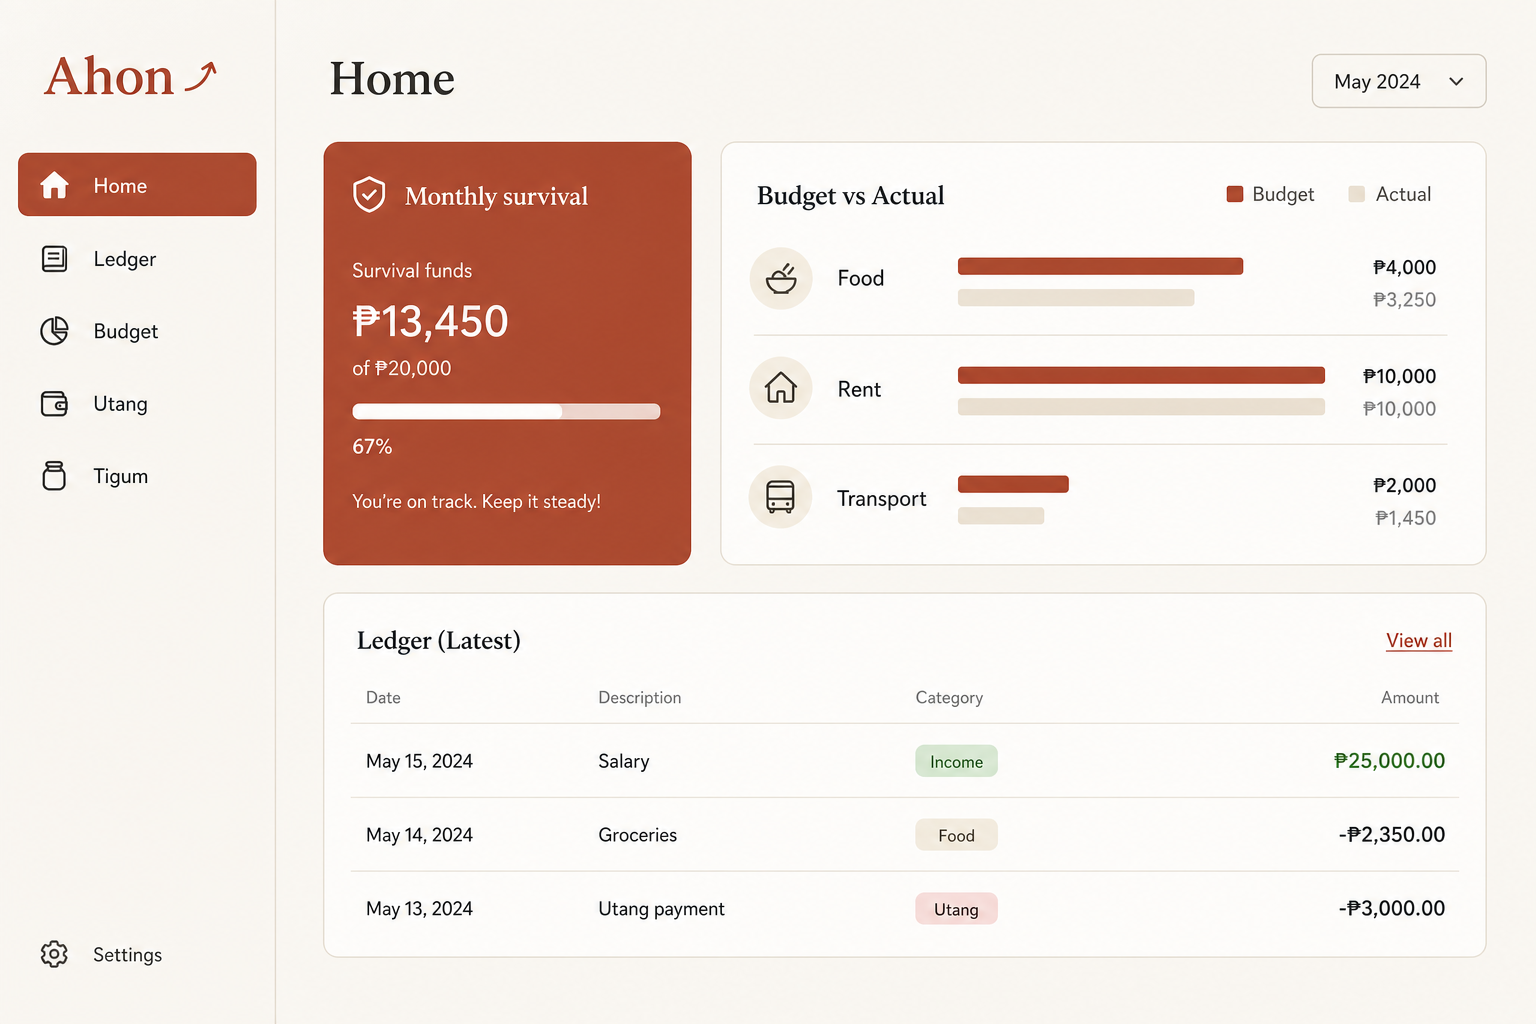
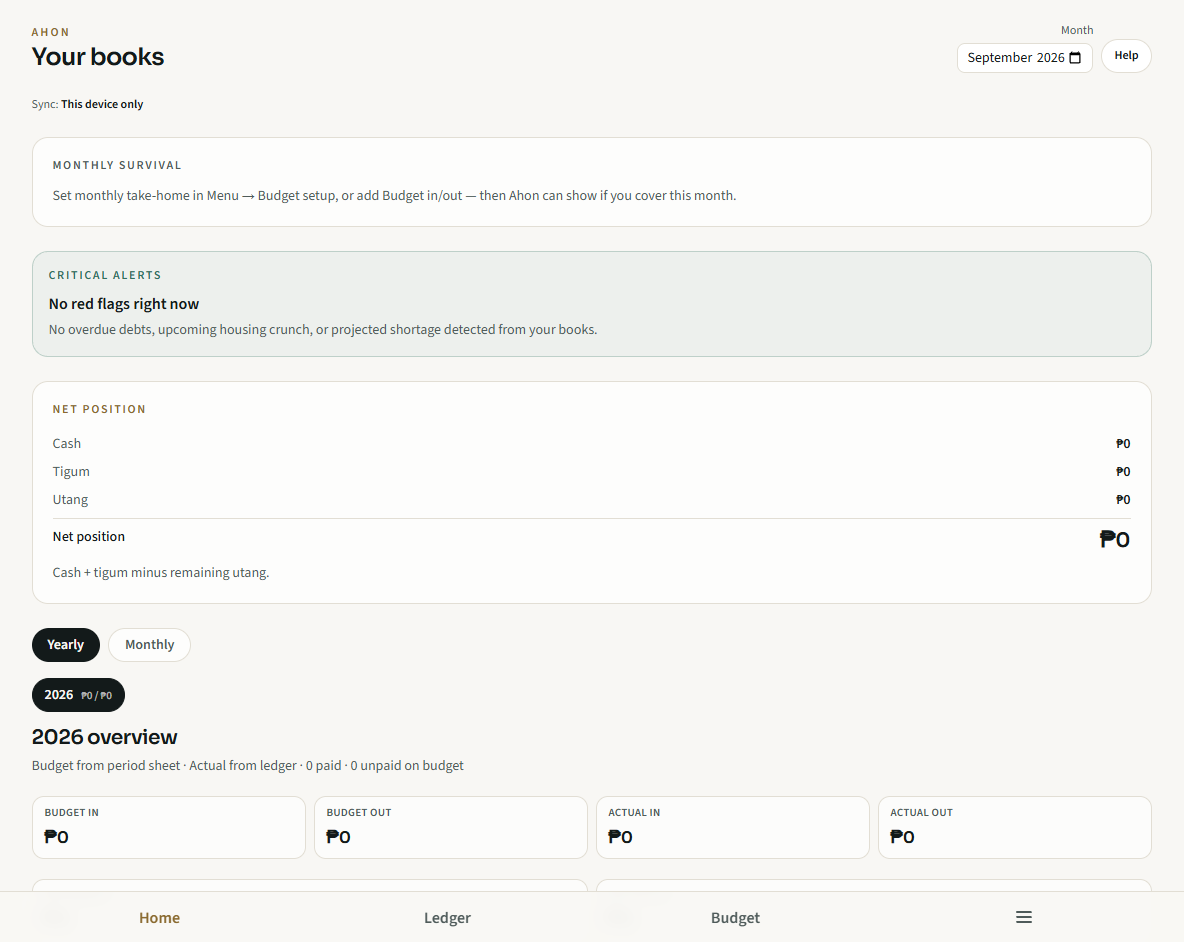
Enhance project display in index.html by adding a featured media set for the Ahon project, including a new image. Update styles in style.css to support the new layout with grid areas for better organization and responsiveness.

diff --git a/css/style.css b/css/style.css
@@ -558,13 +558,27 @@ h3 {
 }
 
 .project-row {
-  grid-template-columns: 4rem minmax(14rem, 20rem) 1fr;
+  grid-template-columns: 4rem 1fr;
   align-items: start;
   padding: 40px 0;
 }
 
-.project-row:not(:has(.project-media)) {
-  grid-template-columns: 4rem 1fr;
+.project-row.is-featured {
+  grid-template-areas:
+    "num media"
+    "num body";
+}
+
+.project-row.is-featured .project-number {
+  grid-area: num;
+}
+
+.project-row.is-featured .project-media-set {
+  grid-area: media;
+}
+
+.project-row.is-featured .project-body {
+  grid-area: body;
 }
 
 .project-number {
@@ -573,20 +587,36 @@ h3 {
   color: var(--accent);
 }
 
+.project-media-set {
+  display: grid;
+  grid-template-columns: 1fr 1fr;
+  gap: 12px;
+}
+
 .project-media {
+  display: block;
   overflow: hidden;
   background: var(--soft);
+  border: 1px solid var(--line);
 }
 
 .project-media img {
+  display: block;
   width: 100%;
-  aspect-ratio: 16 / 9;
-  object-fit: cover;
+  height: auto;
+  aspect-ratio: 4 / 3;
+  object-fit: contain;
+  object-position: top center;
+  background: var(--soft);
   transition: transform 0.6s var(--ease);
 }
 
 .project-media:hover img {
-  transform: scale(1.03);
+  transform: scale(1.02);
+}
+
+.project-row.is-featured .project-body {
+  margin-top: 4px;
 }
 
 .project-category {
@@ -828,7 +858,18 @@ footer {
 
   .process-list li,
   .project-row,
-  .project-row:not(:has(.project-media)) {
+  .project-row.is-featured {
+    grid-template-columns: 1fr;
+    grid-template-areas: none;
+  }
+
+  .project-row.is-featured .project-number,
+  .project-row.is-featured .project-media-set,
+  .project-row.is-featured .project-body {
+    grid-area: auto;
+  }
+
+  .project-media-set {
     grid-template-columns: 1fr;
   }
 

diff --git a/index.html b/index.html
@@ -327,11 +327,26 @@
 
         <div class="project-list">
 
-          <article class="project-row" data-path="web" data-reveal>
+          <article class="project-row is-featured" data-path="web" data-reveal>
             <span class="project-number">01</span>
-            <a class="project-media" href="https://ahon.almariedev.com/" target="_blank" rel="noopener">
-              <img src="images/ahon.png" alt="Ahon home dashboard with budget and ledger" width="1600" height="900">
-            </a>
+            <div class="project-media-set">
+              <a class="project-media" href="https://ahon.almariedev.com/" target="_blank" rel="noopener">
+                <img
+                  src="images/ahon.png"
+                  alt="Ahon home screen showing net position and 2026 overview"
+                  width="1184"
+                  height="942"
+                >
+              </a>
+              <a class="project-media" href="https://ahon.almariedev.com/" target="_blank" rel="noopener">
+                <img
+                  src="images/ahon-tour.png"
+                  alt="Ahon welcome tour on the home screen"
+                  width="1243"
+                  height="937"
+                >
+              </a>
+            </div>
             <div class="project-body">
               <p class="project-category">
                 Web Application
